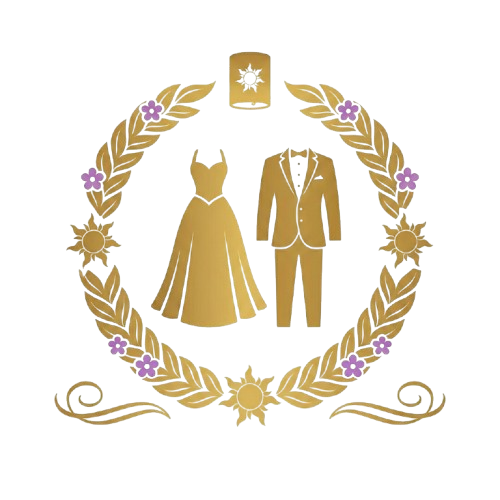
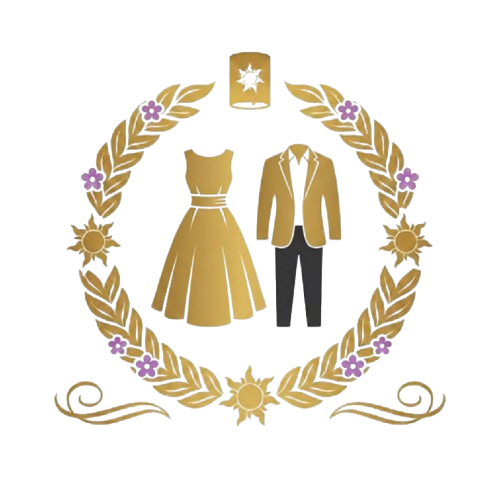
Add files via upload

diff --git a/index.html b/index.html
@@ -302,7 +302,9 @@
                 <div class="dress-code">
                     <img src="dresscode.png" alt="Código de Vestimenta" class="dress-icon-img">
                     <div class="subtitle" style="margin-top:0;">Código de Vestimenta</div>
-                    <p style="font-size: 1.2rem; margin-top: 5px;">Formal</p>
+                    
+                    <p style="font-size: 1.2rem; margin-top: 5px;">Semi-formal</p>
+                    
                     <p style="font-size: 0.9rem; color: var(--texto-suave);">Rogamos etiqueta rigurosa para la corte real.</p>
                 </div>
 
@@ -341,7 +343,7 @@
                         <div class="deadline-box">
                             <div class="deadline-title">⚠ Importante ⚠</div>
                             <p style="font-size: 0.9rem; margin-bottom: 5px;">Para asegurar su lugar en el Banquete Real, favor de confirmar antes del:</p>
-                            <div class="deadline-date">5 de Diciembre</div>
+                            <div class="deadline-date">10 de Diciembre</div>
                         </div>
 
                         <p style="font-weight: bold; margin-bottom: 10px; margin-top: 20px;">Confirmar Asistencia</p>
@@ -363,22 +365,18 @@
         const musicBtn = document.getElementById('music-toggle');
         let isMusicPlaying = false;
         
-        // Ajustamos volumen para que no sea estruendoso al inicio
         music.volume = 0.5;
 
         function openEnvelope() {
             document.getElementById('envelope-overlay').classList.add('envelope-open');
             document.getElementById('invitation').classList.add('show-content');
-            
-            // REPRODUCIR MÚSICA AL ABRIR EL SOBRE
-            // Los navegadores permiten audio si viene de un evento de usuario (clic)
             playMusic();
         }
 
         function playMusic() {
             music.play().then(() => {
                 isMusicPlaying = true;
-                musicBtn.innerHTML = "🎵"; // Cambiar icono a 'Sonando'
+                musicBtn.innerHTML = "🎵";
             }).catch(error => {
                 console.log("No se pudo reproducir audio automáticamente:", error);
                 isMusicPlaying = false;
@@ -386,7 +384,6 @@
             });
         }
 
-        // CONTROLADOR DEL BOTÓN DE MÚSICA
         musicBtn.addEventListener('click', () => {
             if (isMusicPlaying) {
                 music.pause();
@@ -399,13 +396,11 @@
             }
         });
 
-        // CAMBIO DE TEMA
         const themeToggleButton = document.getElementById('theme-toggle');
         themeToggleButton.addEventListener('click', () => {
             document.body.classList.toggle('theme-lilac');
         });
 
-        // CUENTA REGRESIVA
         const targetDate = new Date("December 20, 2025 17:00:00").getTime();
         const timer = setInterval(function() {
             const now = new Date().getTime();
@@ -425,7 +420,6 @@
             document.getElementById("seconds").innerText = s < 10 ? "0" + s : s;
         }, 1000);
 
-        // GALERÍA
         let slideIndex = 1;
         showSlides(slideIndex);
         function plusSlides(n) { showSlides(slideIndex += n); }
